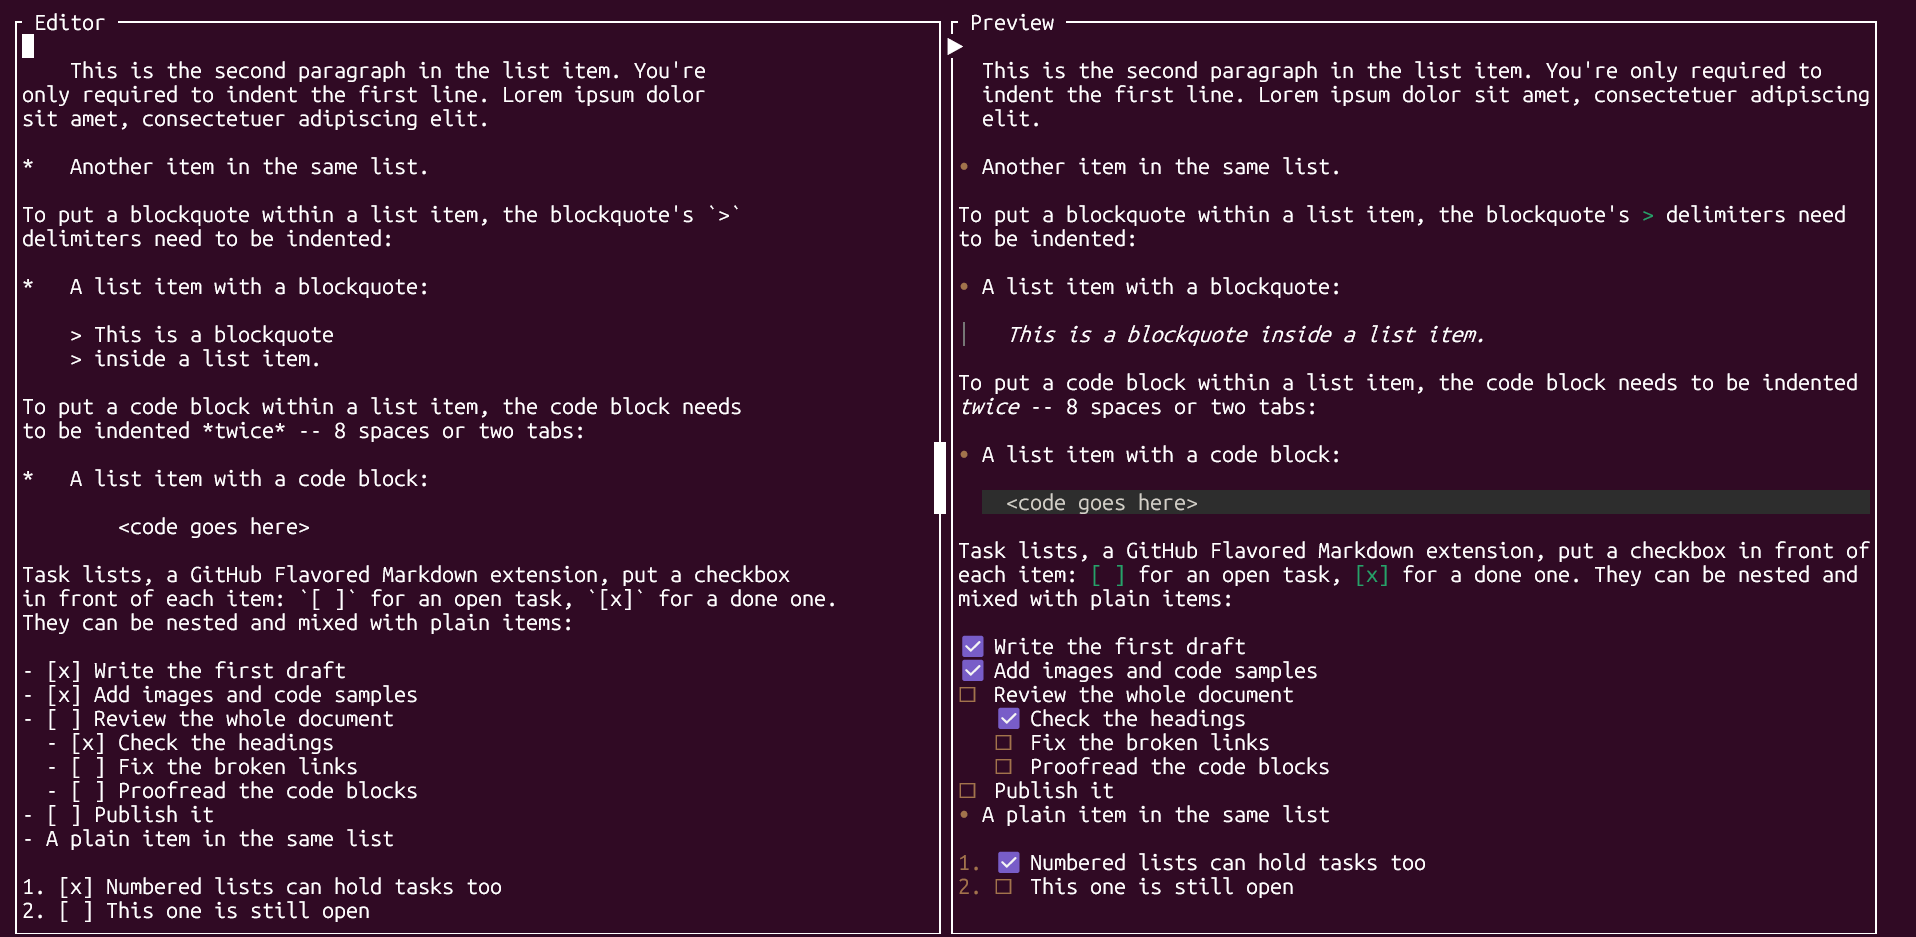
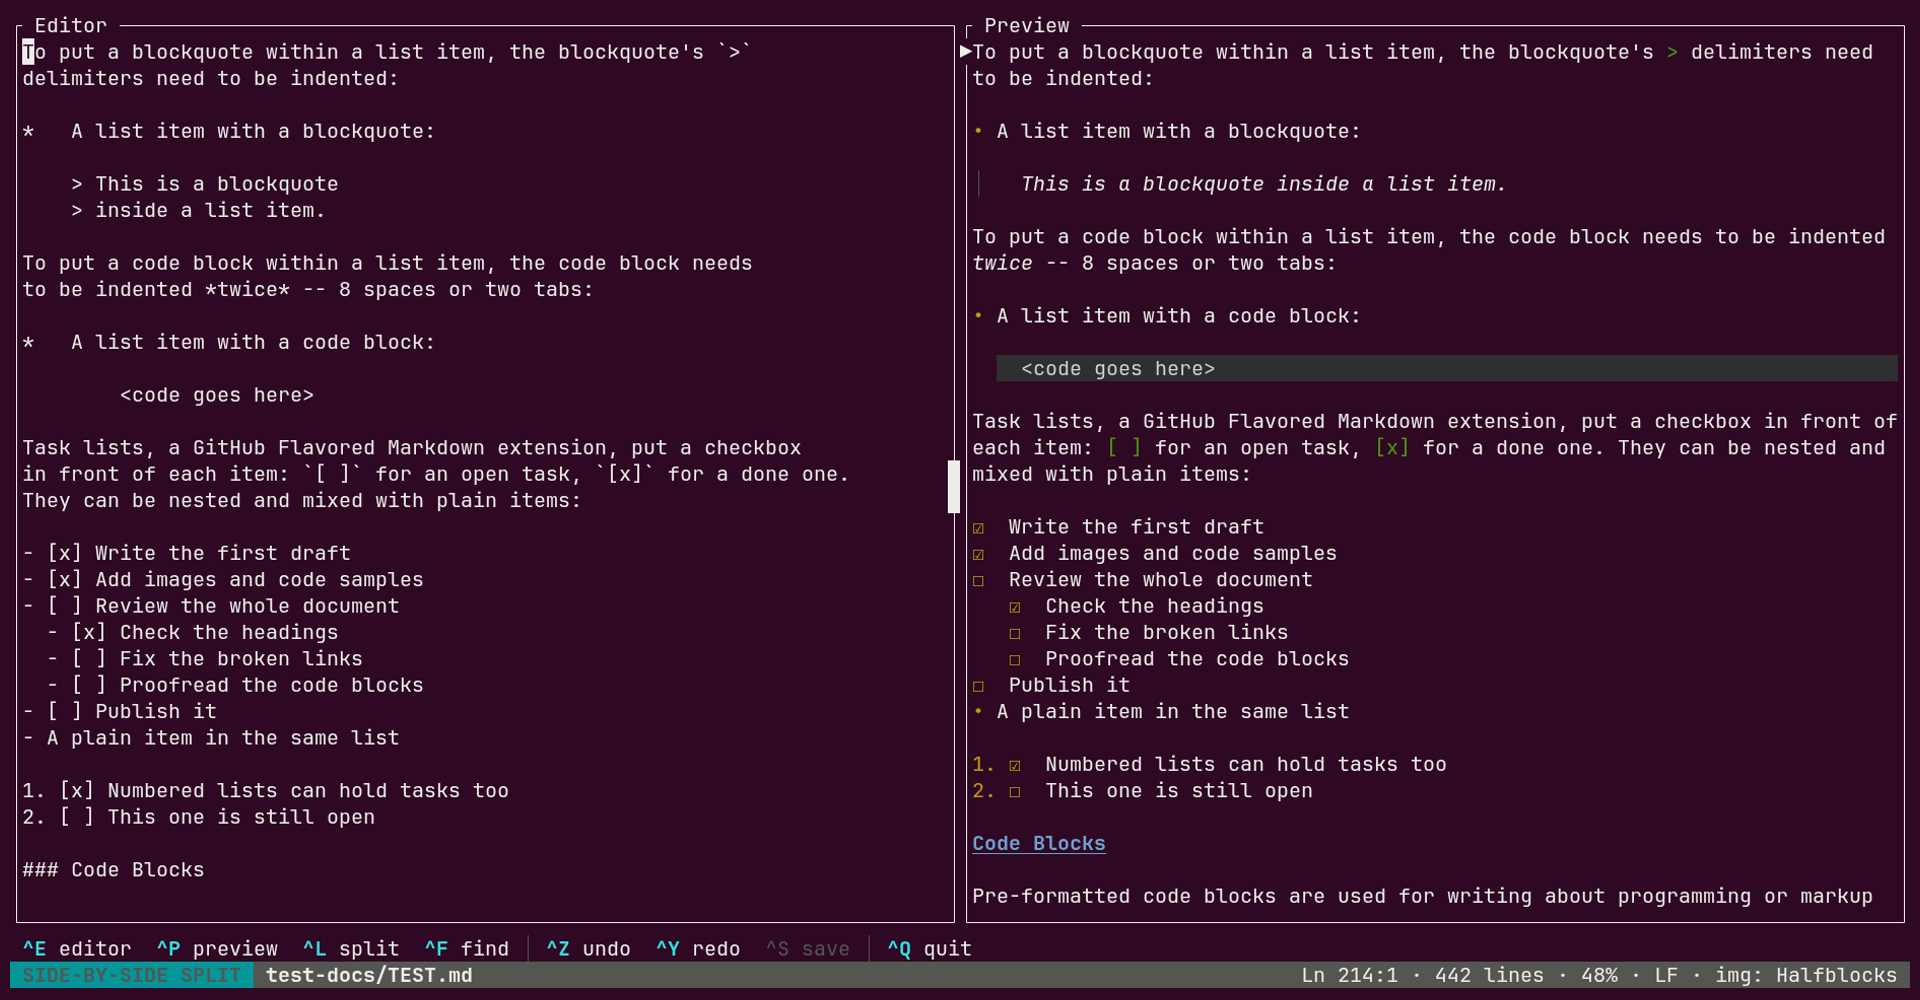
Generate the README screenshots with VHS
- Add one VHS tape per screenshot in docs/tapes/, sharing settings in
  common.tape. Each tape opens TEST.md and brings its section to the
  top with Ctrl+F, so it does not depend on line numbers.
- Add scripts/screenshots.sh: builds a static (musl) binary and runs
  the tapes in VHS's official Docker image, writing the PNGs to docs/
  as the current user.
- Add MDEDIT_HALFBLOCKS to skip the terminal graphics query: VHS's
  terminal claims sixel but cannot draw images, and in tmux the
  unanswered query swallows the first key.
- Regenerate the four screenshots and document the script and the
  variable in the README.

Changed region(s): [[0.0, 0.0, 1.0, 1.0], [0.739, 0.1547, 0.7698, 0.1857]]

diff --git a/src/main.rs b/src/main.rs
@@ -256,7 +256,13 @@ fn main() -> io::Result<()> {
     }));
     // ask the terminal for its graphics protocol (sixel, kitty, iTerm2) and font size;
     // without an answer, fall back to colored half blocks
-    let picker = Picker::from_query_stdio().unwrap_or_else(|_| Picker::halfblocks());
+    // MDEDIT_HALFBLOCKS skips the query: for terminals that claim graphics they cannot show (like the
+    // one used for the README screenshots), or that never answer it (tmux), which costs the first key
+    let picker = if env::var_os("MDEDIT_HALFBLOCKS").is_some() {
+        Picker::halfblocks()
+    } else {
+        Picker::from_query_stdio().unwrap_or_else(|_| Picker::halfblocks())
+    };
     let base = Path::new(&path)
         .parent()
         .filter(|p| !p.as_os_str().is_empty())

diff --git a/README.md b/README.md
@@ -112,6 +112,9 @@ links in the preview. Hold `Shift` while dragging to use your terminal's own sel
 
 - **Images.** Real images need a terminal with sixel, kitty or iTerm2 graphics, such as WezTerm,
   kitty, iTerm2, foot or Windows Terminal 1.22+. Other terminals get a half-block approximation.
+  At startup mdedit asks the terminal which graphics it supports. Set `MDEDIT_HALFBLOCKS=1` to skip
+  that question and always use half blocks: this helps when a terminal claims graphics it can't
+  draw, or never answers (inside tmux the unanswered question swallows the first key you press).
 - **Colors.** Code blocks use 24-bit color when the terminal advertises it (`COLORTERM=truecolor`
   or Windows Terminal), and the 256-color palette otherwise. The code block background assumes a
   dark terminal theme.
@@ -129,6 +132,18 @@ cargo test
 cargo clippy --all-targets
 cargo fmt
 ```
+
+The screenshots in `docs/` are generated with [VHS](https://github.com/charmbracelet/vhs) from the
+tapes in `docs/tapes/`, one per screenshot. To regenerate them after a change (needs Docker and
+rustup; VHS runs from its official Docker image):
+
+```bash
+scripts/screenshots.sh
+```
+
+Pass one or more tapes to regenerate only those, e.g.
+`scripts/screenshots.sh docs/tapes/screenshot_2_code.tape`. To add a screenshot, copy a tape, change
+the text it searches for and the output file, then reference the new image here.
 
 The code lives in `src/`:
 
